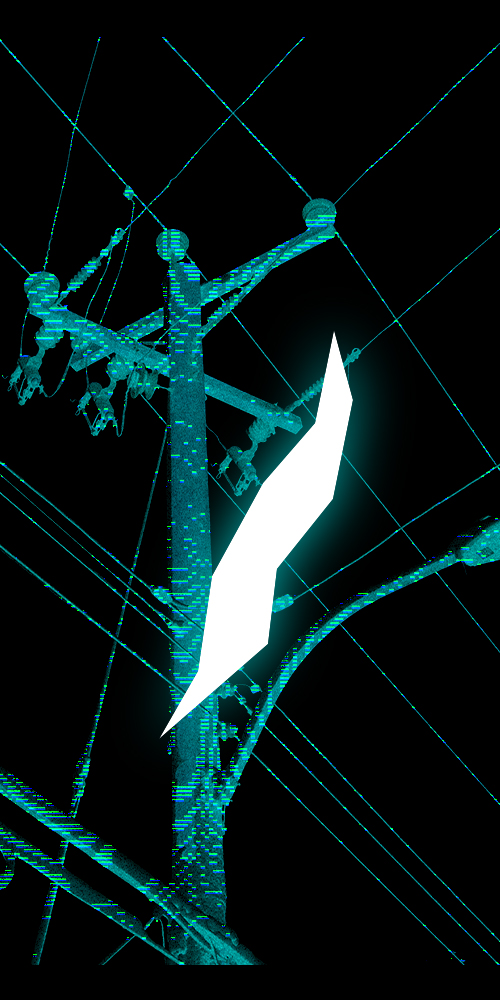
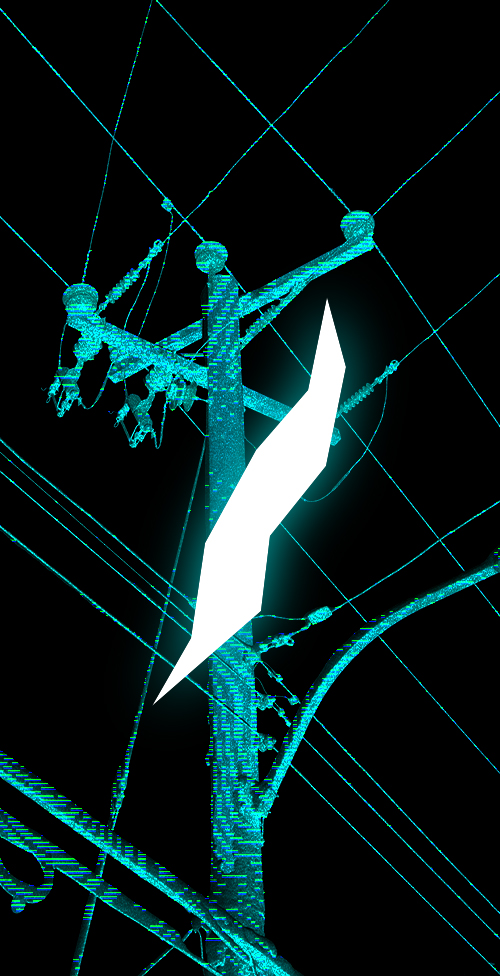
trying new background

diff --git a/index.html b/index.html
@@ -29,64 +29,66 @@
     </header>
 
     <main>
-        <section class="display-btn__container" id="display-btn">
-            <button class="display-btn" id="display-btn__projects" onclick="displayProjects()">Projects</button>
-            <button class="display-btn" id="display-btn__about-me" onclick="displayAboutMe()">About me</button>
-            <button class="display-btn" id="display-btn__contact" onclick="displayContact()">Contact</button>
-        </section>
-
-        <section class="projects body-container" id="projects">
-            <div class="projects__item projects__item--shifting-peace"><a href="shifting-peace.html">
-                <img class="projects__img projects__img--shifting-peace" src="/images/IA.png" alt="Shifting Peace">
-                <div class="projects__label">
-                    <h3 class="projects__name">Shifting Peace</h3>
-                    <p class="projects__medium">MAX MSP</p>
-                </a></div>
-            </div>
-            <div class="projects__item">
-                <img class="projects__img projects__img--search" src="/images/p5.jpg" alt="Search">
-                <div class="projects__label">
-                    <h3 class="projects__name">Search</h3>
-                    <p class="projects__medium">p5.js</p>
+        <div class="main-container__fade"></div>
+        <div class="main-container">
+            <section class="display-btn__container" id="display-btn">
+                <button class="display-btn" id="display-btn__projects" onclick="displayProjects()">Projects</button>
+                <button class="display-btn" id="display-btn__about-me" onclick="displayAboutMe()">About me</button>
+                <button class="display-btn" id="display-btn__contact" onclick="displayContact()">Contact</button>
+            </section>
+            <section class="projects body-container" id="projects">
+                <div class="projects__item projects__item--shifting-peace">
+                    <a href="shifting-peace.html">
+                        <img class="projects__img projects__img--shifting-peace" src="/images/IA.png" alt="Shifting Peace">
+                    </a>
+                    <div class="projects__label">
+                        <h3 class="projects__name"><a href="shifting-peace.html">Shifting Peace</a></h3>
+                        <p class="projects__medium"><a href="shifting-peace.html">MAX MSP</a></p>
+                    </div>
                 </div>
-            </div>
-            <div class="projects__item">
-                <img class="projects__img projects__img--ambient-DnB" src="/images/DnB.jpg" alt="Ambient DnB Generator">
-                <div class="projects__label">
-                    <h3 class="projects__name">Ambient DnB Generator</h3>
-                    <p class="projects__medium">MAX MSP</p>
+                <div class="projects__item">
+                    <img class="projects__img projects__img--search" src="/images/p5.jpg" alt="Search">
+                    <div class="projects__label">
+                        <h3 class="projects__name">Search</h3>
+                        <p class="projects__medium">p5.js</p>
+                    </div>
                 </div>
-            </div>
-            <div class="projects__item">
-                <img class="projects__img projects__img--consumed" src="/images/bitsy1.png" alt="Consume">
-                <div class="projects__label">
-                    <h3 class="projects__name">Consumed</h3>
-                    <p class="projects__medium">Bisty</p>
+                <div class="projects__item">
+                    <img class="projects__img projects__img--ambient-DnB" src="/images/DnB.jpg" alt="Ambient DnB Generator">
+                    <div class="projects__label">
+                        <h3 class="projects__name">Ambient DnB Generator</h3>
+                        <p class="projects__medium">MAX MSP</p>
+                    </div>
                 </div>
-            </div>
-            <div class="projects__item">
-                <img class="projects__img projects__img--photos" src="/images/purepurepure.jpg" alt="">
-                <div class="projects__label">
-                    <h3 class="projects__name">photos music</h3>
-                    <p class="projects__medium">Photography, Photoshop</p>
+                <div class="projects__item">
+                    <img class="projects__img projects__img--consumed" src="/images/bitsy1.png" alt="Consume">
+                    <div class="projects__label">
+                        <h3 class="projects__name">Consumed</h3>
+                        <p class="projects__medium">Bisty</p>
+                    </div>
                 </div>
-            </div>
-            <div class="projects__item">
-                <img class="projects__img projects__img--spiralling-colours" src="/images/lamp.png" alt="Spiralling Colours">
-                <div class="projects__label">
-                    <h3 class="projects__name">Spiralling Colours</h3>
-                    <p class="projects__medium">Microcontroller, Neopixels</p>
+                <div class="projects__item">
+                    <img class="projects__img projects__img--photos" src="/images/purepurepure.jpg" alt="">
+                    <div class="projects__label">
+                        <h3 class="projects__name">photos music</h3>
+                        <p class="projects__medium">Photography, Photoshop</p>
+                    </div>
                 </div>
-            </div>
-        </section>
-
-        <section class="about-me" id="about-me">
-            <p>about me Lorem ipsum dolor sit amet consectetur adipisicing elit. Saepe, fugit ea qui dignissimos laboriosam dicta magnam minima suscipit distinctio non libero officia consequatur voluptas eius numquam ullam explicabo fuga neque!</p>
-        </section>
-
-        <section class="contact" id="contact">
-            <p>contact me Lorem ipsum dolor sit amet consectetur adipisicing elit. Magni error autem rerum dolore debitis aspernatur omnis quod, dolor distinctio ut officia soluta temporibus quisquam quos aliquid hic provident quibusdam quia.</p>
-        </section>
+                <div class="projects__item">
+                    <img class="projects__img projects__img--spiralling-colours" src="/images/lamp.png" alt="Spiralling Colours">
+                    <div class="projects__label">
+                        <h3 class="projects__name">Spiralling Colours</h3>
+                        <p class="projects__medium">Microcontroller, Neopixels</p>
+                    </div>
+                </div>
+            </section>
+            <section class="about-me" id="about-me">
+                <p>about me Lorem ipsum dolor sit amet consectetur adipisicing elit. Saepe, fugit ea qui dignissimos laboriosam dicta magnam minima suscipit distinctio non libero officia consequatur voluptas eius numquam ullam explicabo fuga neque!</p>
+            </section>
+            <section class="contact" id="contact">
+                <p>contact me Lorem ipsum dolor sit amet consectetur adipisicing elit. Magni error autem rerum dolore debitis aspernatur omnis quod, dolor distinctio ut officia soluta temporibus quisquam quos aliquid hic provident quibusdam quia.</p>
+            </section>
+        </div>
     </main>
 </body>
 </html>

diff --git a/styles/style.css b/styles/style.css
@@ -11,13 +11,17 @@ body {
   color: white;
 }
 
+.main-container__fade {
+  display: none;
+}
+
 .body-container {
   width: 90%;
   margin: auto;
 }
 
 .header {
-  background: url(/images/header-mobile1.jpg) 40% top no-repeat;
+  background: url(/images/header-mobile.jpg) 40% top no-repeat;
   height: 100vh;
   z-index: -3;
   position: relative;
@@ -87,8 +91,8 @@ body {
 }
 
 .projects {
-  max-width: min(100%, 550px);
-  margin: 1.5rem auto 4rem auto;
+  max-width: min(100%, 480px);
+  margin: 1.5rem auto auto;
 }
 
 .projects__item {
@@ -99,22 +103,30 @@ body {
   border: #03d8c691 solid 3px;
 }
 
+.projects__label {
+  display: flex;
+  flex-flow: nowrap column;
+  align-items: center;
+}
+
 .projects__name {
+  display: inline-block;
   font-size: 1.3rem;
-  text-align: center;
+  /* text-align: center; */
   font-weight: normal;
   letter-spacing: 3px;
 }
 
 .projects__medium {
+  display: inline-block;
   font-size: 1rem;
-  text-align: center;
+  /* text-align: center; */
   margin-top: 0.5rem;
   color: var(--primary-accent-color);
   letter-spacing: 2px;
 }
 
-.main-container {
+.project-container {
   max-width: 600px;
 }
 
@@ -182,6 +194,40 @@ body {
   margin: 0.2rem 0;
 }
 
-.project-page__description {
-  /* margin-top: 1.5rem; */
+
+
+@media (min-width: 500px) {
+  .header {
+    background: url(/images/header-desktop.jpg) 40% top no-repeat;
+  }  
+}
+
+@media (min-width: 760px) {
+  main {
+    background-color: rgb(49, 49, 49);
+    z-index: -3;  
+    /* min-height: 100vh; */
+  }
+
+  .main-container {
+    background-color: #000000;
+    max-width: 580px;
+    margin: auto;
+    min-height: 100vh;
+    z-index: -1;
+  }
+
+  .main-container--project {
+    max-width: 700px;
+  }
+
+  .main-container__fade {
+    display: block;
+    position: absolute;
+    width: 100%;
+    height: 200px;
+    background-color: red;
+    /* z-index: -1; */
+  }
+
 }

diff --git a/shifting-peace.html b/shifting-peace.html
@@ -24,13 +24,15 @@
     </nav>
 
     <main>
-        <div class="main-container body-container">
-            <a class="back-btn" href="index.html#display-btn"><<< Back</a>
-            <img class="project-page__img" src="/images/IA.png" alt="">
-            <h2 class="project-page__name">Shifting Peace</h2>
-            <p class="project-page__medium">MaxMSP, Microbit, Projector, Webcam</p>
-            <p class="project-page__date">2025</p>
-            <p class="project-page__description">Lorem ipsum dolor sit amet consectetur adipisicing elit. Nam dolor ad in, adipisci doloremque eos asperiores reprehenderit laborum quis ipsum voluptates, dicta odio. Repellendus unde quos, voluptatibus maiores voluptatum cumque.</p>
+        <div class="main-container main-container--project">
+            <div class="project-container body-container">
+                <a class="back-btn" href="index.html#display-btn"><<< Back</a>
+                <img class="project-page__img" src="/images/IA.png" alt="">
+                <h2 class="project-page__name">Shifting Peace</h2>
+                <p class="project-page__medium">MaxMSP, Microbit, Projector, Webcam</p>
+                <p class="project-page__date">2025</p>
+                <p class="project-page__description">Lorem ipsum dolor sit amet consectetur adipisicing elit. Nam dolor ad in, adipisci doloremque eos asperiores reprehenderit laborum quis ipsum voluptates, dicta odio. Repellendus unde quos, voluptatibus maiores voluptatum cumque.</p>
+            </div>
         </div>
     </main>
 </body>
